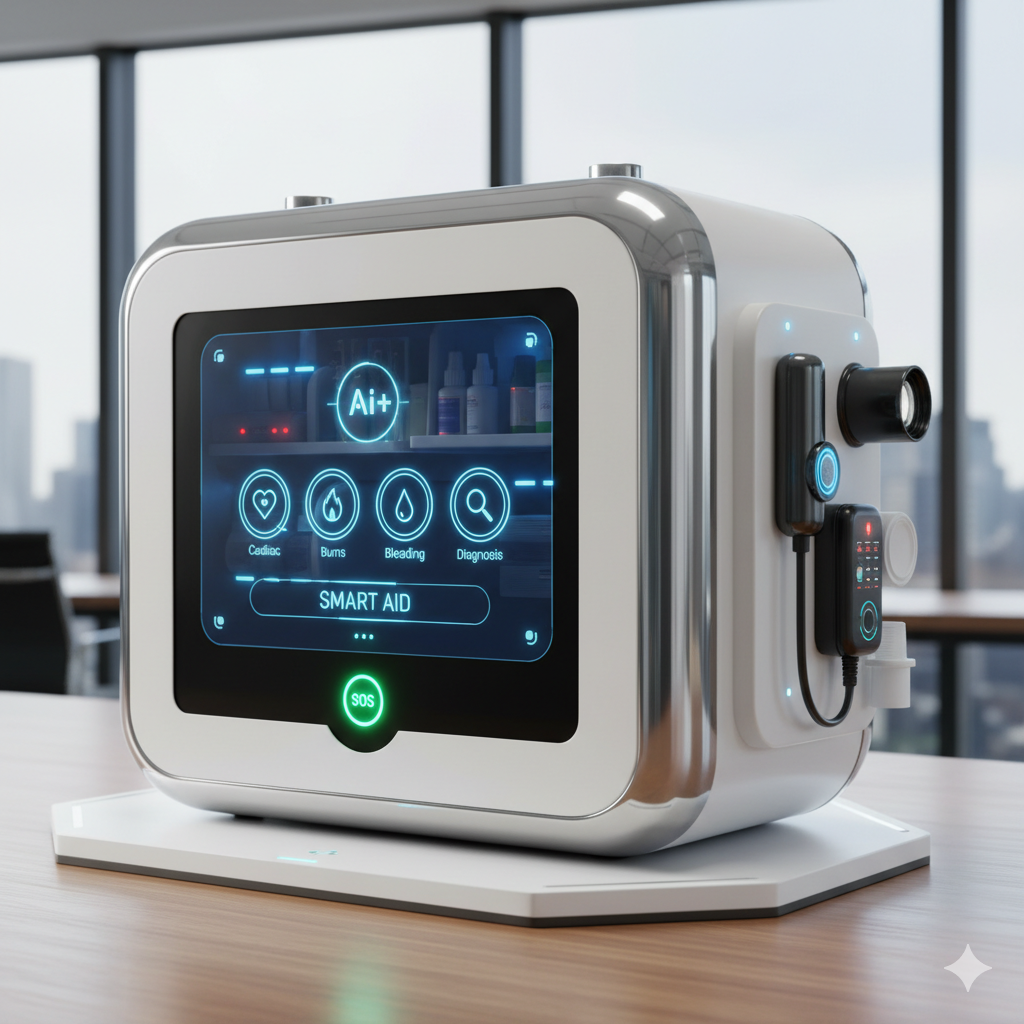
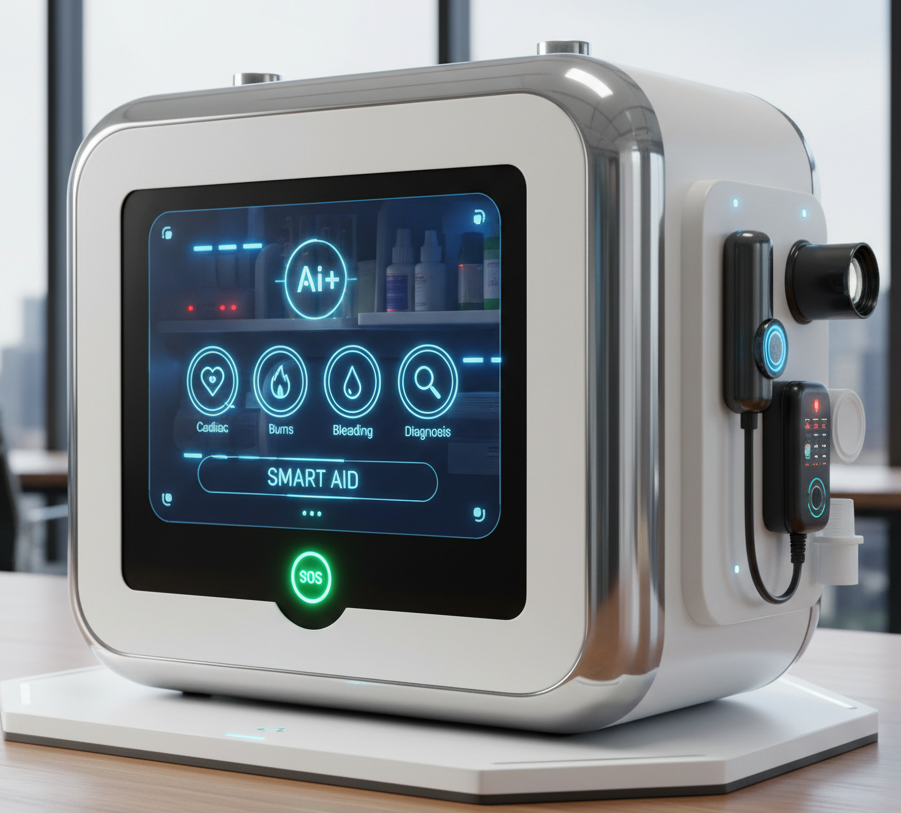
Update portfolio content

diff --git a/index.html b/index.html
@@ -961,7 +961,7 @@
             </div>
             <div class="project-card">
                 <div class="project-img">
-                    <img src="D:\Portfolio\assets\images\Gemini_Generated_Image_n4me9bn4me9bn4me.png" alt="Noor e Azkar" width="80" height="80">
+                    <img src="D:\Portfolio\assets\images\Gemini_Generated_Image_n4me9bn4me9bn4me.png" alt="Noor e Azkar" width="120" height="120">
                 </div>
                 <div class="project-info">
                     <h3>Noor e Azkar</h3>
@@ -1004,7 +1004,7 @@
             </div>
             <div class="project-card">
                 <div class="project-img">
-                    <img src="D:\Portfolio\assets\images\image_2b1d6ca8.png" alt="AI Health Assistant" width="80" height="80">
+                    <img src="D:\Portfolio\assets\images\image_2b1d6ca8.png" alt="AI Health Assistant" width="120" height="120">
                 </div>
                 <div class="project-info">
                     <h3>AI Health Assistant</h3>
